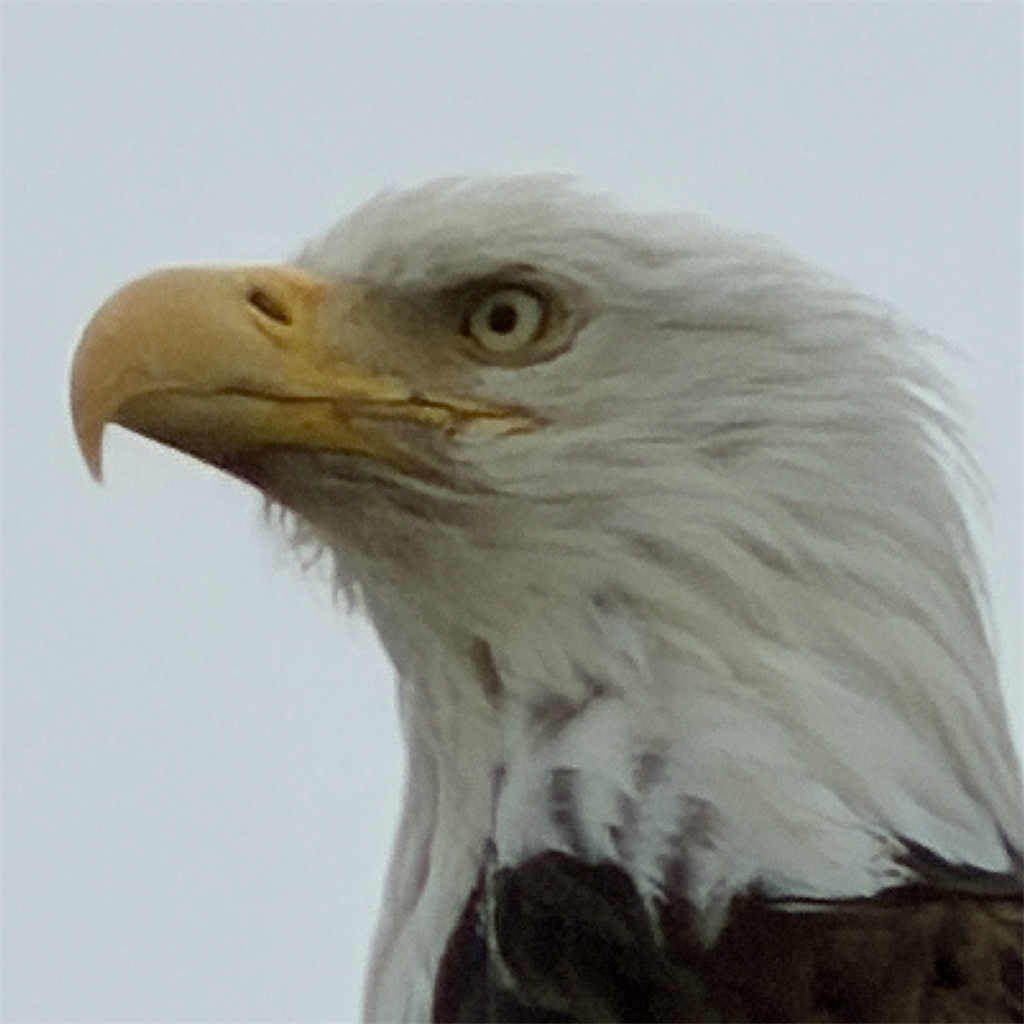
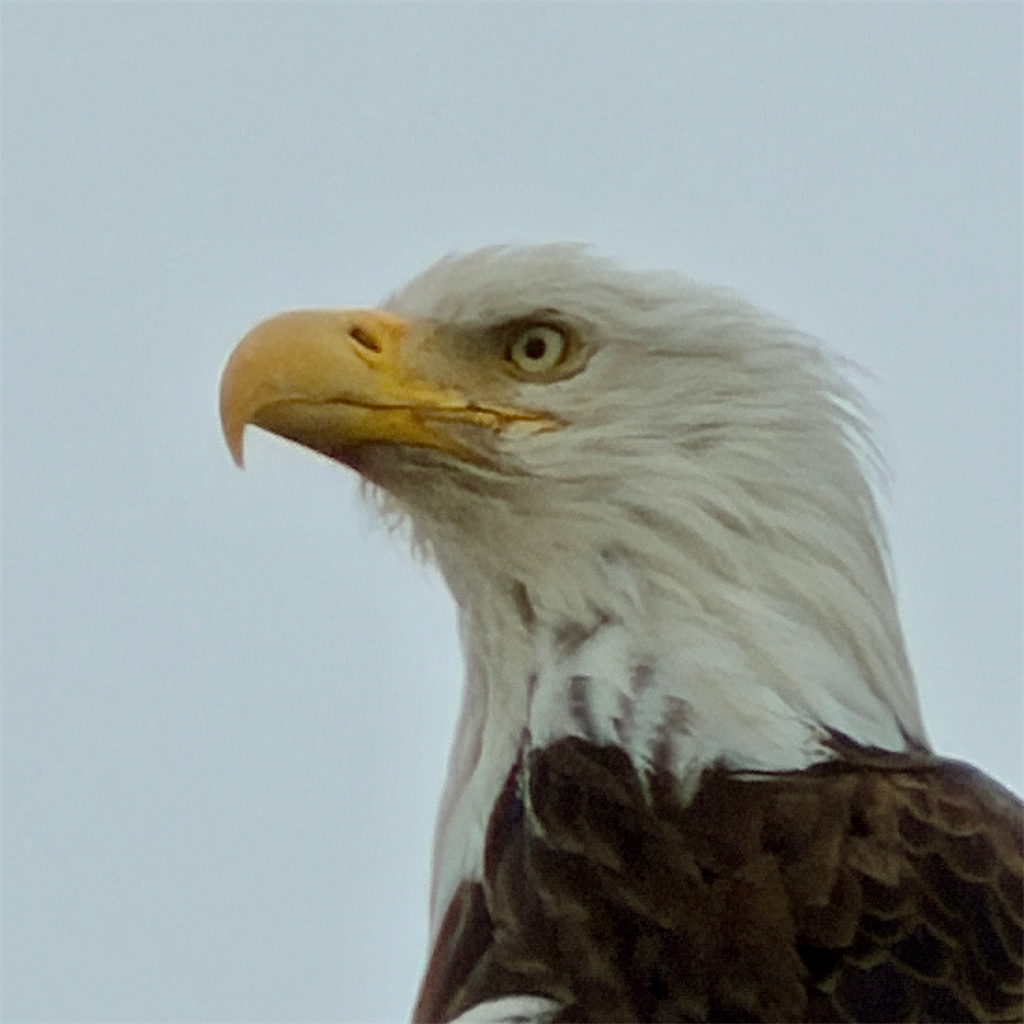
v1.0.21: reframe the eagle so the circle mask stops eating the beak
The new master photo sits differently in frame from the one it replaced —
head higher and further right, more sky at the left — so the crops tuned for
the previous shot were wrong for it. On the main menu the mark is masked by
CSS to a circle INSCRIBED in the square, which throws away 21% of the crop
and every corner, and the hooked beak tip landed 0.509 from centre against a
0.5 radius. It clipped.

Crops are now SOLVED against the mask each output actually gets, from
landmarks read off a grid overlay of the master rather than estimated:

  ICON { 0.148, 0.090, 0.820 } under the iOS squircle, which only bites the
  corners, so it holds the whole profile plus the dark body that gives the
  icon weight at 60px.

  MARK { 0.165, 0.105, 0.645 } under the CSS circle. The beak tip now lands
  0.461 from centre — inside 0.5 with room, instead of outside it.

The real fix is that generate.js now CHECKS this instead of trusting the eye.
LANDMARKS records where the bird is in the master; each output declares what
it owes (the icon owes the whole PROFILE, the tight face mark owes the FACE
and is entitled to lose the trailing nape feathers); assertFramed refuses to
write an asset whose required landmarks fall outside its own mask, and names
the landmark and its offset when it does. This class of bug is invisible
until it is on a phone — a square preview looks perfect right up to the
moment something makes it round — and the next photo swap would have walked
[…]

diff --git a/assets/generate.js b/assets/generate.js
@@ -205,12 +205,52 @@ function drawPhoto(cv, img, crop, size, ox, oy, circle) {
   }
 }
 
-// ICON is nearly the full frame: iOS masks the corners to a squircle itself, so
-// a full-bleed photo is correct and built-in padding would be cropped twice.
-const CROP_ICON = { x: 0.03, y: 0.005, s: 0.94 };
-// MARK is tighter, because at 26px in the navbar a whole-frame photo reads as a
-// smudge. Framed on the eye and the beak, which is what makes it a bald eagle.
-const CROP_MARK = { x: 0.10, y: 0.06, s: 0.72 };
+// Crops are solved against the mask each output actually gets, not eyeballed.
+// ICON sits under the iOS squircle, which only bites the corners, so it can
+// hold the whole profile plus the dark body that gives the mark weight.
+const CROP_ICON = { x: 0.148, y: 0.090, s: 0.820 };
+// MARK is masked by CSS to a circle INSCRIBED in the square, so the usable area
+// is 79% of the crop and the corners are gone. Sized so the hooked beak tip —
+// the furthest-left thing that makes this bird a bald eagle — clears the arc:
+// it lands 0.46 from centre against a 0.5 radius. A crop that merely "looks
+// centred" clips it, which is exactly what the previous one did.
+const CROP_MARK = { x: 0.165, y: 0.105, s: 0.645 };
+
+// Where the bird is in the master, in the master's own normalised coordinates.
+// Read off a grid overlay, not guessed. These exist so a crop can be CHECKED
+// rather than admired: the first pass at this photo looked fine as a square and
+// lost the beak the moment CSS made it round, which is invisible until it ships.
+const LANDMARKS = {
+  'beak tip': [0.195, 0.375],
+  'beak hook': [0.225, 0.465],
+  'crown': [0.440, 0.235],
+  'eye': [0.530, 0.330],
+  'nape': [0.905, 0.450],
+};
+// What each output OWES, which is not the same as what is in the photo. The
+// mark is a deliberately tight face, so losing the trailing nape feathers is
+// the crop working; losing the beak is the crop broken.
+const FACE = ['beak tip', 'beak hook', 'crown', 'eye'];
+const PROFILE = [...FACE, 'nape'];
+
+// A landmark must survive the mask its output actually gets. The circle is
+// inscribed, so it discards the corners; the iOS squircle only bites them.
+function assertFramed(crop, label, mask, required) {
+  for (const name of required) {
+    const [mx, my] = LANDMARKS[name];
+    const u = (mx - crop.x) / crop.s - 0.5;
+    const v = (my - crop.y) / crop.s - 0.5;
+    const inside = mask === 'circle'
+      ? Math.hypot(u, v) <= 0.5
+      : Math.abs(u * 2) ** 5 + Math.abs(v * 2) ** 5 <= 1;
+    if (!inside) {
+      throw new Error(
+        `${label}: "${name}" falls outside the ${mask} mask `
+        + `(${u.toFixed(3)}, ${v.toFixed(3)}). Widen or recentre the crop, or `
+        + `update LANDMARKS if the master photo changed.`);
+    }
+  }
+}
 
 const GREEN_TOP = [18, 150, 100], GREEN_BOT = [8, 70, 48];
 const DARK_TOP = [10, 32, 24], DARK_BOT = [4, 16, 12];
@@ -228,6 +268,9 @@ function renderSplash(img, size, top, bot) {
 
 const out = __dirname;
 const master = decodePNG(fs.readFileSync(path.join(out, 'brand', 'eagle.png')));
+
+assertFramed(CROP_ICON, 'CROP_ICON', 'squircle', PROFILE);
+assertFramed(CROP_MARK, 'CROP_MARK', 'circle', FACE);
 
 const icon = new Canvas(1024, 1024);
 drawPhoto(icon, master, CROP_ICON, 1024, 0, 0, false);

diff --git a/www/index.html b/www/index.html
@@ -672,7 +672,7 @@
       // Single source of truth for the shipped version. The footer and the debug
       // header both render from this, and tests/version.test.js asserts it
       // matches package.json so a release can't ship a mislabeled build.
-      var APP_VERSION = '1.0.20';
+      var APP_VERSION = '1.0.21';
       var K = { api: 'ebird_api_key', region: 'ebird_region', report: 'ebird_report', seen: 'ebird_seen', seenMeta: 'ebird_seen_meta', field: 'ebird_seen_field' };
       var $ = function (id) { return document.getElementById(id); };
       var BL = window.BirdLogic;
